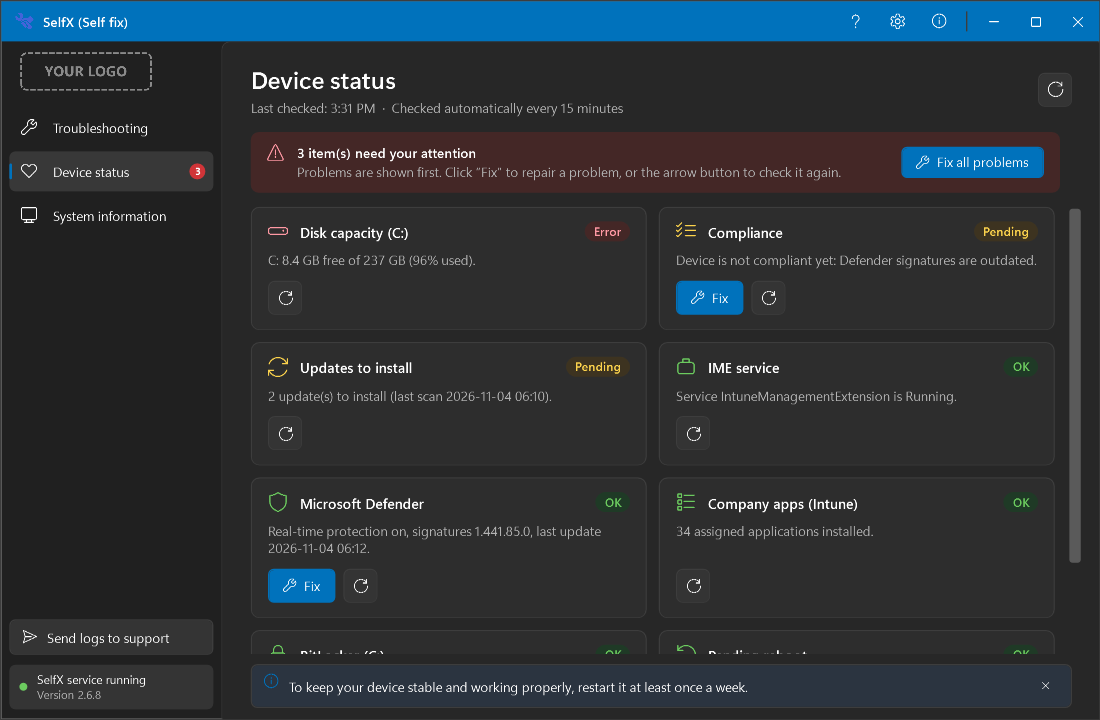
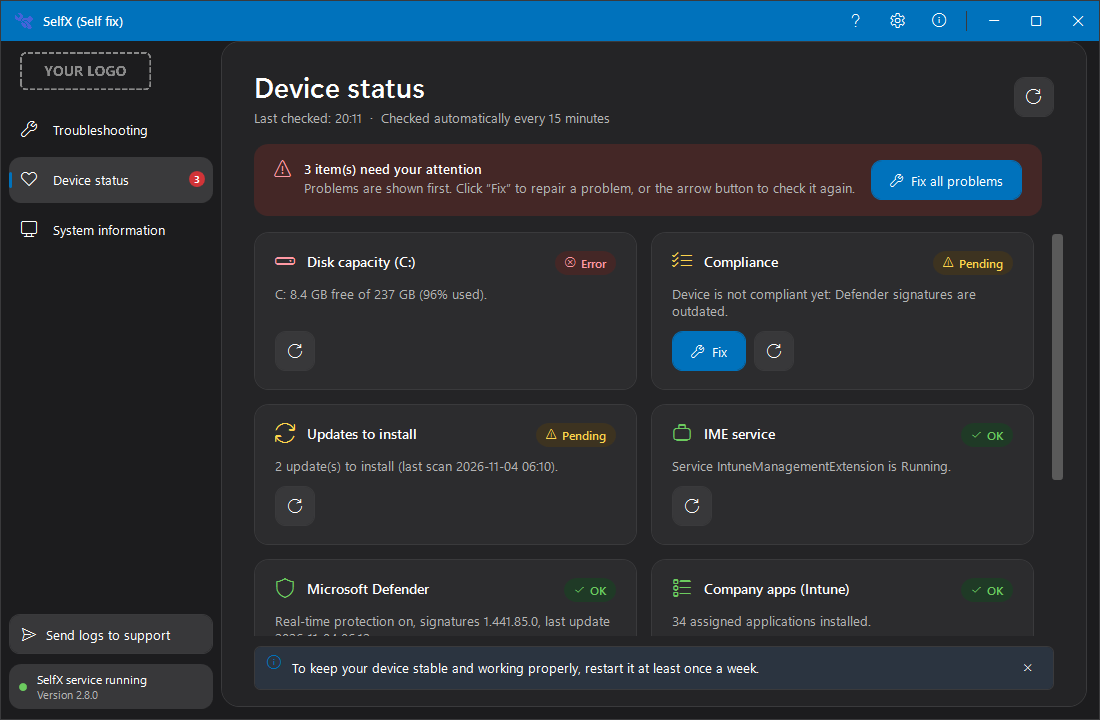
docs: screenshots of the calmer GUI (device status, narrow window, system information), version note 2.8
The screenshots show sample data only (fictional device Contoso).

Claude-Session: https://claude.ai/code/session_01UAHmJ8gCLPzLefSuqoMvTX

diff --git a/README.en.md b/README.en.md
@@ -26,7 +26,7 @@ deployment of SelfX Service: see
 
 ## Screenshots
 
-The screenshots were taken with SelfX Service 2.6.8 and show sample data (fictional device
+The screenshots were taken with SelfX Service 2.8 and show sample data (fictional device
 *Contoso*) and the placeholder logo of the delivered configuration.
 
 **Troubleshooting:** actions in plain language, with search, categories and an

diff --git a/README.md b/README.md
@@ -32,7 +32,7 @@ mit der Endung `.en.md` und der Ordner `docs/en`).
 
 ## Bildschirmfotos
 
-Die Bildschirmfotos stammen von SelfX Service 2.6.8 (englische Oberfläche) und
+Die Bildschirmfotos stammen von SelfX Service 2.8 (englische Oberfläche) und
 zeigen Beispieldaten (fiktives Gerät *Contoso*) sowie das Platzhalter-Logo der
 mitgelieferten Konfiguration.
 
